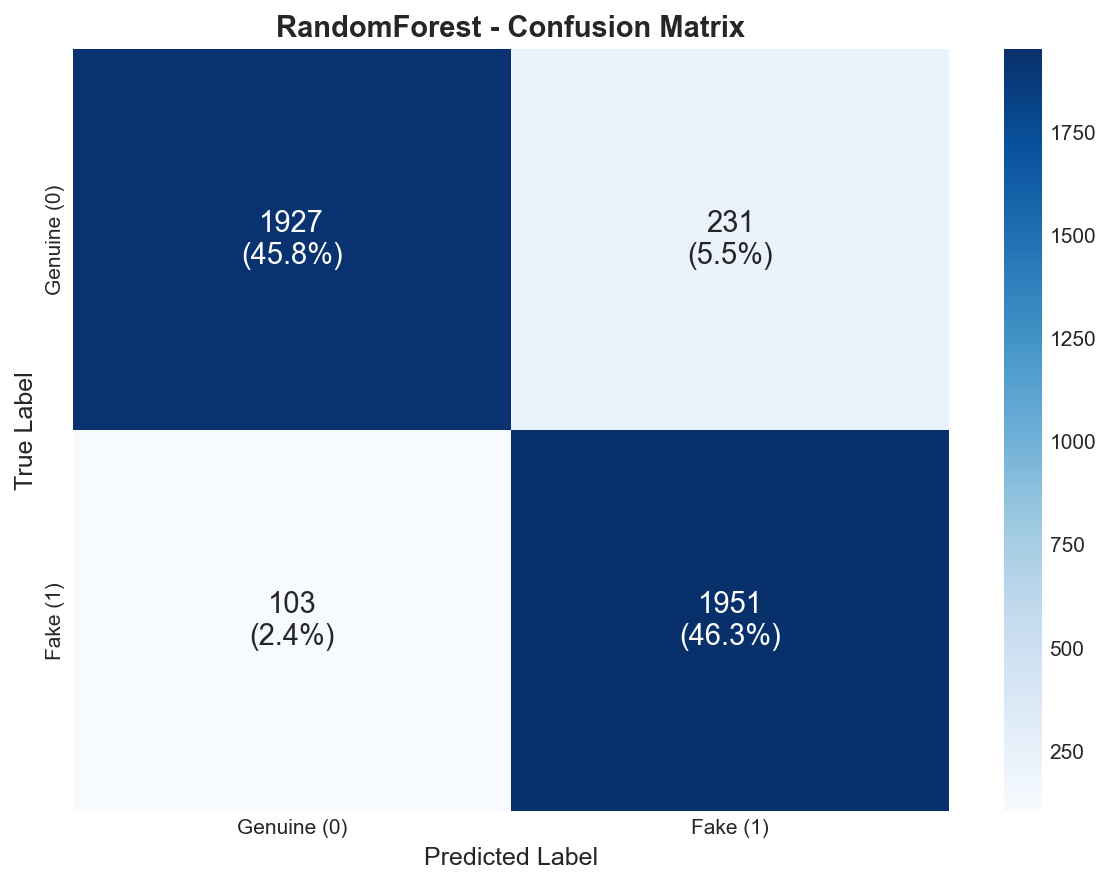
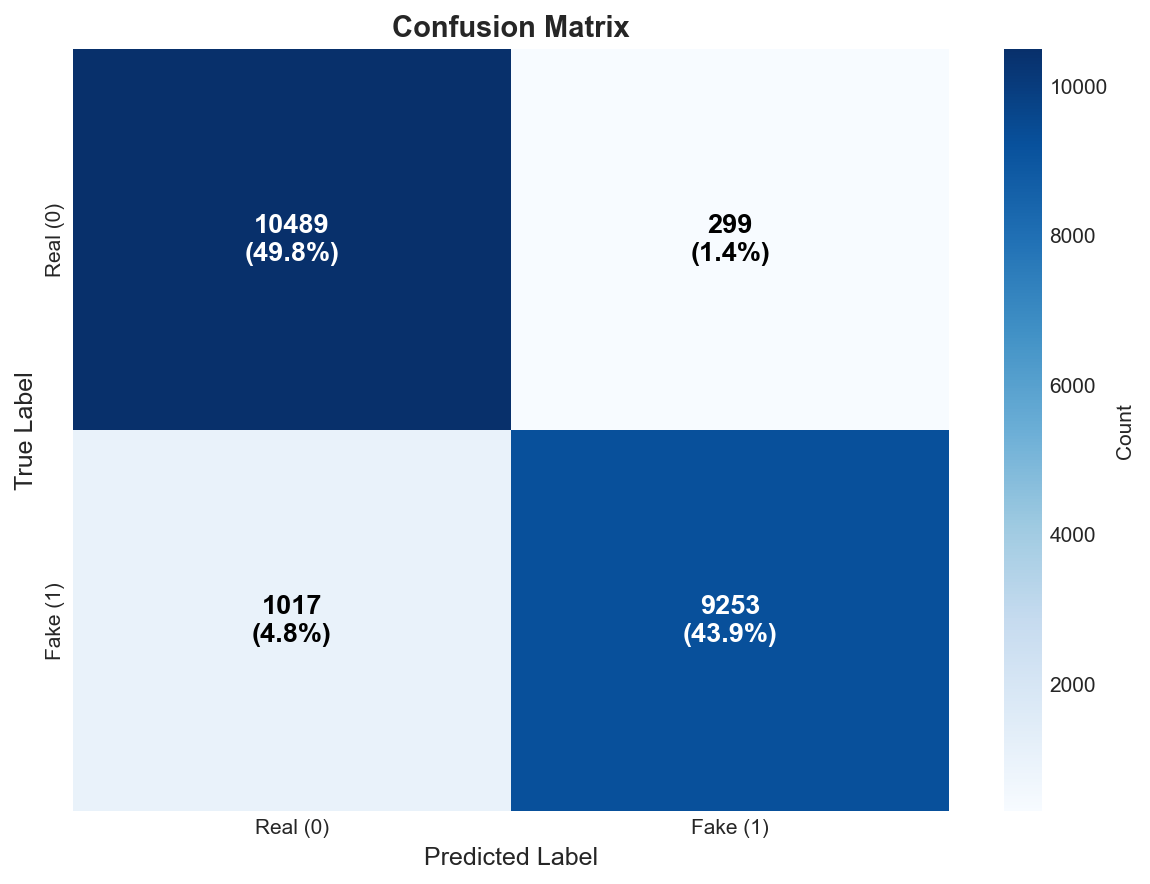
Add visualizations: include accuracy curve, loss curve, confusion matrix, ROC curve, and data distribution plots; update confusion matrix labels to 'Real' and 'Fake'

diff --git a/src/visualize.py b/src/visualize.py
@@ -120,7 +120,7 @@ def plot_confusion_matrix(
     Args:
         y_true: True labels.
         y_pred: Predicted labels.
-        labels: Class labels for display. Defaults to ['Genuine', 'Fake'].
+        labels: Class labels for display. Defaults to ['Real', 'Fake'].
         title: Plot title.
         save_path: Path to save the figure.
         figsize: Figure size.
@@ -133,7 +133,7 @@ def plot_confusion_matrix(
         >>> plot_confusion_matrix(y_test, y_pred, save_path='cm.png')
     """
     if labels is None:
-        labels = ['Genuine (0)', 'Fake (1)']
+        labels = ['Real (0)', 'Fake (1)']
     
     # Compute confusion matrix
     cm = confusion_matrix(y_true, y_pred)
@@ -141,29 +141,32 @@ def plot_confusion_matrix(
     # Create figure
     fig, ax = plt.subplots(figsize=figsize)
     
-    # Plot heatmap
+    # Plot heatmap without annotations first
     sns.heatmap(
         cm, 
-        annot=True, 
-        fmt='d', 
+        annot=False, 
         cmap=cmap,
         xticklabels=labels,
         yticklabels=labels,
         ax=ax,
-        annot_kws={'size': 14}
+        cbar_kws={'label': 'Count'}
     )
+    
+    # Add annotations with counts and percentages
+    total = cm.sum()
+    for i in range(cm.shape[0]):
+        for j in range(cm.shape[1]):
+            count = cm[i, j]
+            percentage = count / total * 100
+            text = f'{count}\n({percentage:.1f}%)'
+            # Use white text for dark cells, black text for light cells
+            text_color = 'white' if cm[i, j] > cm.max() / 2 else 'black'
+            ax.text(j + 0.5, i + 0.5, text, ha='center', va='center', 
+                   color=text_color, fontsize=13, fontweight='bold')
     
     ax.set_xlabel('Predicted Label', fontsize=12)
     ax.set_ylabel('True Label', fontsize=12)
     ax.set_title(title, fontsize=14, fontweight='bold')
-    
-    # Add percentages
-    total = cm.sum()
-    for i in range(cm.shape[0]):
-        for j in range(cm.shape[1]):
-            percentage = cm[i, j] / total * 100
-            current_text = ax.texts[i * cm.shape[1] + j]
-            current_text.set_text(f'{cm[i, j]}\n({percentage:.1f}%)')
     
     plt.tight_layout()
     
@@ -517,3 +520,263 @@ def plot_threshold_analysis(
         logger.info(f"Threshold analysis plot saved to {save_path}")
     
     return fig
+
+
+def plot_accuracy_curve(
+    history: Dict[str, List[float]],
+    title: str = "Model Accuracy",
+    save_path: Optional[Union[str, Path]] = None,
+    figsize: Tuple[int, int] = (10, 6)
+) -> plt.Figure:
+    """
+    Plot training and validation accuracy curves.
+    
+    Args:
+        history: Dictionary with 'train_accuracy' and 'val_accuracy' lists.
+        title: Plot title.
+        save_path: Path to save the figure.
+        figsize: Figure size.
+        
+    Returns:
+        matplotlib Figure object.
+        
+    Example:
+        >>> history = {'train_accuracy': [0.8, 0.85, 0.9], 'val_accuracy': [0.78, 0.83, 0.88]}
+        >>> plot_accuracy_curve(history)
+    """
+    fig, ax = plt.subplots(figsize=figsize)
+    
+    epochs = range(1, len(history.get('train_accuracy', [])) + 1)
+    
+    if 'train_accuracy' in history:
+        ax.plot(epochs, history['train_accuracy'], 'b-', lw=2, label='Training Accuracy')
+    if 'val_accuracy' in history:
+        ax.plot(epochs, history['val_accuracy'], 'r-', lw=2, label='Validation Accuracy')
+    
+    ax.set_xlabel('Epoch', fontsize=12)
+    ax.set_ylabel('Accuracy', fontsize=12)
+    ax.set_title(title, fontsize=14, fontweight='bold')
+    ax.legend(loc='lower right', fontsize=10)
+    ax.grid(True, alpha=0.3)
+    ax.set_ylim([0, 1.05])
+    
+    plt.tight_layout()
+    
+    if save_path:
+        save_path = Path(save_path)
+        save_path.parent.mkdir(parents=True, exist_ok=True)
+        fig.savefig(save_path, dpi=150, bbox_inches='tight')
+        logger.info(f"Accuracy curve plot saved to {save_path}")
+    
+    return fig
+
+
+def plot_loss_curve(
+    history: Dict[str, List[float]],
+    title: str = "Model Loss",
+    save_path: Optional[Union[str, Path]] = None,
+    figsize: Tuple[int, int] = (10, 6)
+) -> plt.Figure:
+    """
+    Plot training and validation loss curves.
+    
+    Args:
+        history: Dictionary with 'train_loss' and 'val_loss' lists.
+        title: Plot title.
+        save_path: Path to save the figure.
+        figsize: Figure size.
+        
+    Returns:
+        matplotlib Figure object.
+        
+    Example:
+        >>> history = {'train_loss': [0.5, 0.3, 0.2], 'val_loss': [0.52, 0.32, 0.22]}
+        >>> plot_loss_curve(history)
+    """
+    fig, ax = plt.subplots(figsize=figsize)
+    
+    epochs = range(1, len(history.get('train_loss', [])) + 1)
+    
+    if 'train_loss' in history:
+        ax.plot(epochs, history['train_loss'], 'b-', lw=2, label='Training Loss')
+    if 'val_loss' in history:
+        ax.plot(epochs, history['val_loss'], 'r-', lw=2, label='Validation Loss')
+    
+    ax.set_xlabel('Epoch', fontsize=12)
+    ax.set_ylabel('Loss', fontsize=12)
+    ax.set_title(title, fontsize=14, fontweight='bold')
+    ax.legend(loc='upper right', fontsize=10)
+    ax.grid(True, alpha=0.3)
+    
+    plt.tight_layout()
+    
+    if save_path:
+        save_path = Path(save_path)
+        save_path.parent.mkdir(parents=True, exist_ok=True)
+        fig.savefig(save_path, dpi=150, bbox_inches='tight')
+        logger.info(f"Loss curve plot saved to {save_path}")
+    
+    return fig
+
+
+def plot_data_distribution(
+    data: pd.DataFrame,
+    label_column: str = 'label',
+    title: str = "Data Distribution",
+    save_path: Optional[Union[str, Path]] = None,
+    figsize: Tuple[int, int] = (12, 6)
+) -> plt.Figure:
+    """
+    Plot distribution of data across classes - shows only class distribution pie chart and class count bar chart.
+    
+    Args:
+        data: Pandas DataFrame containing the data.
+        label_column: Name of the label column.
+        title: Plot title.
+        save_path: Path to save the figure.
+        figsize: Figure size.
+        
+    Returns:
+        matplotlib Figure object.
+        
+    Example:
+        >>> df = pd.read_csv('data/labeled_dataset.csv')
+        >>> plot_data_distribution(df, label_column='label')
+    """
+    fig, axes = plt.subplots(1, 2, figsize=figsize)
+    fig.suptitle(title, fontsize=16, fontweight='bold')
+    
+    # 1. Class distribution (pie chart)
+    if label_column in data.columns:
+        class_counts = data[label_column].value_counts()
+        colors = ['#2ecc71', '#e74c3c']  # Green for 0, Red for 1
+        labels = ['Real (0)', 'Fake (1)']
+        
+        wedges, texts, autotexts = axes[0].pie(class_counts, labels=labels, autopct='%1.1f%%', 
+                       colors=colors[:len(class_counts)], startangle=90)
+        
+        # Make percentage text more readable
+        for autotext in autotexts:
+            autotext.set_color('white')
+            autotext.set_fontsize(11)
+            autotext.set_fontweight('bold')
+        
+        axes[0].set_title('Class Distribution (Percentage)', fontsize=13, fontweight='bold')
+    
+    # 2. Class distribution (bar chart)
+    if label_column in data.columns:
+        class_counts = data[label_column].value_counts()
+        bars = axes[1].bar(['Real (0)', 'Fake (1)'][:len(class_counts)], class_counts, 
+                       color=['#2ecc71', '#e74c3c'][:len(class_counts)], edgecolor='black', linewidth=1.5)
+        axes[1].set_ylabel('Count', fontsize=12, fontweight='bold')
+        axes[1].set_title('Class Count (Absolute)', fontsize=13, fontweight='bold')
+        axes[1].grid(True, alpha=0.3, axis='y')
+        
+        # Add count labels on bars
+        for i, (bar, v) in enumerate(zip(bars, class_counts)):
+            axes[1].text(bar.get_x() + bar.get_width()/2, v + 100, str(v), 
+                        ha='center', fontsize=12, fontweight='bold')
+    
+    plt.tight_layout()
+    
+    if save_path:
+        save_path = Path(save_path)
+        save_path.parent.mkdir(parents=True, exist_ok=True)
+        fig.savefig(save_path, dpi=150, bbox_inches='tight')
+        logger.info(f"Data distribution plot saved to {save_path}")
+    
+    return fig
+
+
+def generate_5_plots(
+    y_true: np.ndarray,
+    y_pred: np.ndarray,
+    y_proba: np.ndarray,
+    data: Optional[pd.DataFrame] = None,
+    history: Optional[Dict[str, List[float]]] = None,
+    model_name: str = "Model",
+    output_dir: Optional[Union[str, Path]] = None,
+    show_plots: bool = False
+) -> Dict[str, plt.Figure]:
+    """
+    Generate all 5 required plots: Accuracy, Loss, Confusion Matrix, ROC Curve, Data Distribution.
+    
+    Args:
+        y_true: True labels.
+        y_pred: Predicted labels.
+        y_proba: Predicted probabilities for the positive class.
+        data: Dataset for distribution plot.
+        history: Training history with accuracy and loss.
+        model_name: Name of the model.
+        output_dir: Directory to save plots.
+        show_plots: Whether to display plots.
+        
+    Returns:
+        Dictionary mapping plot names to Figure objects.
+        
+    Example:
+        >>> figs = generate_5_plots(
+        ...     y_test, y_pred, y_proba,
+        ...     data=df_train,
+        ...     history={'train_accuracy': [...], 'val_accuracy': [...], ...},
+        ...     model_name='RandomForest',
+        ...     output_dir='docs/figures'
+        ... )
+    """
+    if output_dir is None:
+        output_dir = DEFAULT_FIGURES_DIR
+    output_dir = Path(output_dir)
+    output_dir.mkdir(parents=True, exist_ok=True)
+    
+    figures = {}
+    
+    # 1. Accuracy Curve
+    if history and 'train_accuracy' in history:
+        logger.info("Creating accuracy curve plot...")
+        figures['accuracy_curve'] = plot_accuracy_curve(
+            history,
+            title="Accuracy Curve",
+            save_path=output_dir / f"{model_name.lower()}_accuracy_curve.png"
+        )
+    
+    # 2. Loss Curve
+    if history and 'train_loss' in history:
+        logger.info("Creating loss curve plot...")
+        figures['loss_curve'] = plot_loss_curve(
+            history,
+            title="Loss Curve",
+            save_path=output_dir / f"{model_name.lower()}_loss_curve.png"
+        )
+    
+    # 3. Confusion Matrix
+    logger.info("Creating confusion matrix plot...")
+    figures['confusion_matrix'] = plot_confusion_matrix(
+        y_true, y_pred,
+        title="Confusion Matrix",
+        save_path=output_dir / f"{model_name.lower()}_confusion_matrix.png"
+    )
+    
+    # 4. ROC Curve
+    logger.info("Creating ROC curve plot...")
+    figures['roc_curve'] = plot_roc_curve(
+        y_true, y_proba,
+        title="ROC Curve",
+        save_path=output_dir / f"{model_name.lower()}_roc_curve.png"
+    )
+    
+    # 5. Data Distribution
+    if data is not None:
+        logger.info("Creating data distribution plot...")
+        figures['data_distribution'] = plot_data_distribution(
+            data,
+            title="Data Distribution",
+            save_path=output_dir / f"{model_name.lower()}_data_distribution.png"
+        )
+    
+    if show_plots:
+        plt.show()
+    else:
+        plt.close('all')
+    
+    logger.info(f"All 5 plots saved to {output_dir}")
+    return figures